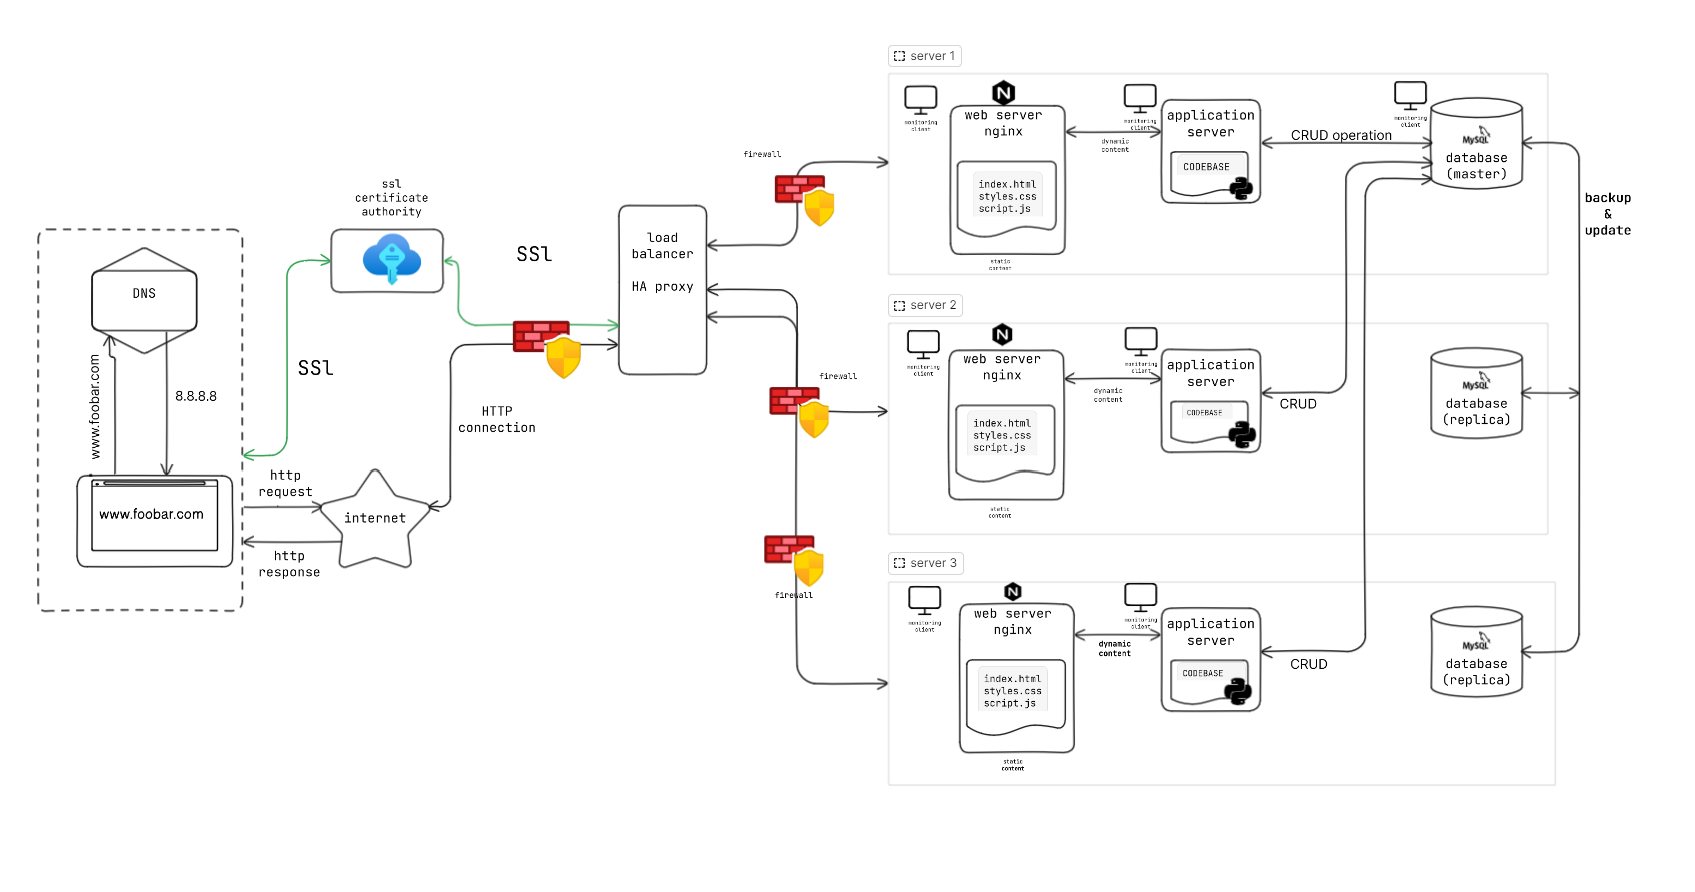
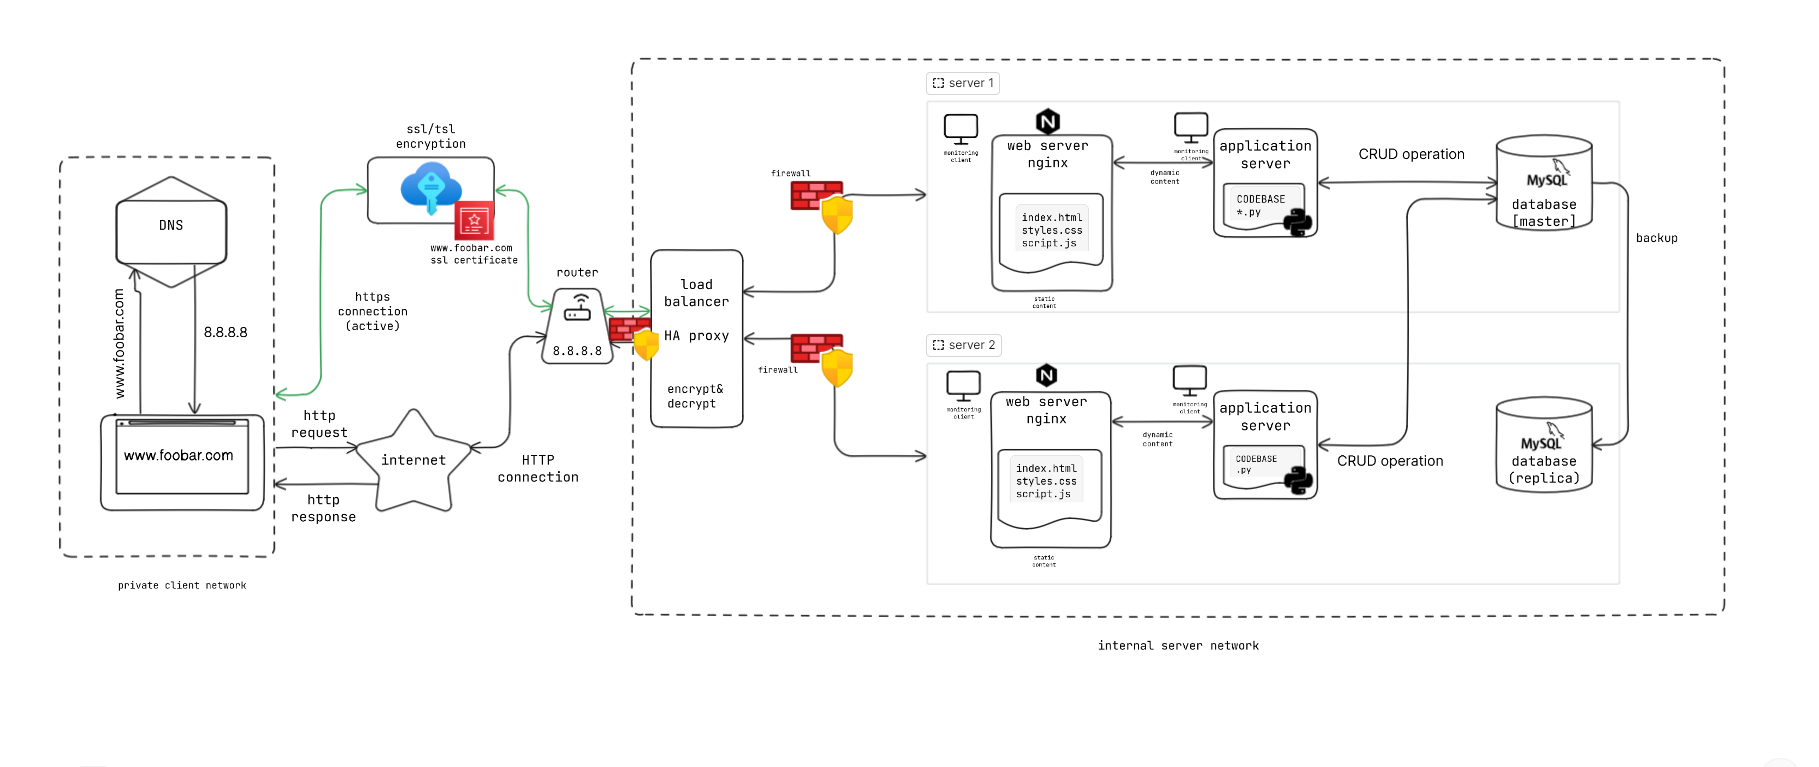
update images

diff --git a/0x09-web_infrastructure_design/writeups/task_2.md b/0x09-web_infrastructure_design/writeups/task_2.md
@@ -1,0 +1,99 @@
+# www.foobar.com Infrastructure
+
+This README explains the process from the client browser to the servers at www.foobar.com.
+It covers the enhanced infrastructure to make www.foobar.com secure, serve encrypted traffic, and enable monitoring.
+
+## Infrastructure Overview
+
+We have added several components to the infrastructure to improve security, encryption, and monitoring.
+
+### Components Added
+
+- **Firewalls (3)**: Firewalls act as protective barriers, filtering incoming and outgoing traffic to ensure only authorized communication occurs and to guard against malicious access.
+
+- **SSL Certificate**: An SSL certificate has been installed. It secures the website by encrypting data exchanged between clients and servers, ensuring data privacy and integrity.
+
+- **Monitoring Clients (6)**: Monitoring clients serve as data collectors. They gather information for monitoring services like Sumo Logic, providing insights into server and application performance, and helping to identify and address issues proactively.
+
+### Specifics About the Infrastructure
+
+#### Firewalls
+
+**Why**: Firewalls are added to:
+- Control incoming and outgoing traffic, permitting only necessary and authorized communication.
+- Enhance security by safeguarding against unauthorized access attempts and malicious traffic.
+- Isolate sensitive components from direct external access.
+
+#### Serving Traffic Over HTTPS
+
+**Why**: We serve traffic over HTTPS to:
+- Encrypt data transmitted between clients and servers, ensuring confidentiality and data integrity.
+- Provide a secure browsing experience for users, protecting sensitive information.
+- Prevent eavesdropping and man-in-the-middle attacks.
+
+#### Monitoring
+
+**Why**: Monitoring is essential for:
+- Keeping an eye on server and application performance.
+- Detecting issues early and responding to them proactively, minimizing downtime.
+- Collecting and analyzing data to gain insights into system behavior and make informed decisions.
+
+#### Monitoring Data Collection
+
+**How**: Monitoring clients (data collectors) collect data by:
+- Capturing logs, metrics, and events from servers and applications.
+- Transmitting this data to monitoring services like Sumo Logic for analysis.
+- Generating alerts and reports based on predefined criteria to flag unusual behavior.
+
+#### Monitoring Web Server QPS (Queries Per Second)
+
+**How**: To monitor web server QPS, you can set up monitoring tools to:
+- Track the number of incoming HTTP requests per second.
+- Analyze server response times and error rates.
+- Establish thresholds and alerts that notify you when QPS exceeds predefined limits.
+
+### Issues with the Infrastructure
+
+#### Terminating SSL at the Load Balancer Level
+
+**Issue**: Terminating SSL at the load balancer level poses problems because:
+- It necessitates the SSL/TLS decryption and encryption process at the load balancer, potentially overloading it.
+- It may expose unencrypted traffic between the load balancer and application servers, posing a security risk.
+
+**Mitigation**: Implement SSL/TLS termination at the application servers to distribute the SSL/TLS workload evenly and securely.
+
+#### Only One MySQL Server Accepting Writes
+
+**Issue**: Having only one MySQL server capable of accepting write operations is problematic because:
+- It creates a single point of failure (SPOF) for write operations. If this server fails, write operations become unavailable.
+- It limits write scalability and can lead to performance bottlenecks.
+
+**Mitigation**: Implement a Primary-Replica (Master-Slave) MySQL cluster with multiple replica nodes to provide redundancy, scalability, and fault tolerance for write operations.
+
+#### Servers with All the Same Components
+
+**Issue**: Servers with identical components (database, web server, application server) might be problematic because:
+- They lack component isolation, making the entire server vulnerable to issues with one component.
+- They limit the ability to scale specific components independently based on their resource requirements.
+
+**Mitigation**: Consider separating components onto different servers or containers to allow for more fine-grained scalability and isolation, improving system stability and resource utilization.
+
+## Connection Process (Using Sample IP Addresses)
+
+1. **Client Request**: A user's browser (e.g., IP: 203.0.113.1) initiates an HTTPS request to www.foobar.com.(8.8.8.8)
+
+2. **Firewall Check (Firewall 1)**: The request is first checked by the firewall (e.g., Firewall 1, IP: 192.168.1.101) to ensure it meets security criteria. Authorized traffic passes through.
+
+3. **Load Balancer**: Traffic is directed to the load balancer (IP: 192.168.1.102) to distribute requests evenly.
+
+4. **SSL/TLS Encryption (Load Balancer)**: The load balancer, which is also responsible for SSL termination, decrypts the HTTPS request, processes it, and re-encrypts the response before forwarding it.
+
+5. **Web Server & Application Server (Server)**: The load balancer routes the request to one of the application servers (e.g., Server 1, IP: 192.168.1.103). Both web and application servers respond to the request.
+
+6. **SSL/TLS Encryption (Load Balancer)**: The load balancer re-encrypts the response and sends it back to the client.
+
+7. **Firewall Check (Firewall 1)**: The response passes through the firewall before reaching the client, ensuring ongoing security.
+
+8. **Monitoring Clients**: Monitoring clients (e.g., IP: 192.168.1.104) collect data on server and application performance and transmit it to the monitoring service (Sumo Logic) for analysis.
+
+This process ensures secure, encrypted, and monitored communication between the client browser and the servers at www.foobar.com.

diff --git a/0x09-web_infrastructure_design/writeups/task_3.md b/0x09-web_infrastructure_design/writeups/task_3.md
@@ -1,0 +1,91 @@
+# Scalable Web Application Infrastructure Setup
+
+An overview of a scalable web application infrastructure, designed to handle increased traffic, ensure high availability, and maintain robust security. The setup consists of various components, each serving a specific purpose to enhance the reliability and performance of our web application hosted at www.foobar.com.
+
+## Components
+
+Our infrastructure includes the following components:
+
+### Network Components
+
+1. **Router (8.8.8.8)**: This router serves as the gateway to the internet, routing incoming HTTPS connections to the network.
+
+2. **Firewalls**:
+   - **Front-End Firewall**: Positioned before the load balancers, this firewall ensures that only authorized traffic reaches our load balancers.
+   - **Perimeter Firewalls**: Each load balancer has a dedicated perimeter firewall to provide an additional layer of security.
+
+### Load Balancers
+
+3. **HAProxy Load Balancers (Clustered)**: We have configured two HAProxy load balancers as a cluster. This setup ensures high availability, fault tolerance, and efficient distribution of incoming traffic to web servers.
+
+### Web Servers
+
+4. **Web Servers (Nginx)**: Three Nginx web servers handle incoming client requests. These web servers serve static content and manage user interactions.
+
+5. **Monitoring Clients for Web Servers**: Each web server has a monitoring client responsible for collecting performance and usage data.
+
+### Application Servers
+
+6. **Application Servers**: Three dedicated application servers are responsible for executing the application's business logic. These servers are designed for scalability to accommodate increased processing demands.
+
+7. **Monitoring Clients for Application Servers**: Each application server has a monitoring client responsible for collecting performance and usage data.
+
+### Database
+
+8. **Master Database (MySQL)**: The MySQL master database server stores and manages data for the application.
+
+9. **Database Replicas**: Two database replicas enhance data redundancy, read scalability, and failover capabilities.
+
+## Architecture Overview
+
+The scalable web application infrastructure operates as follows:
+
+--- a simplified representation of how traffic would flow through the provided infrastructure setup using sample IP addresses:
+
+1. **Client Request**:
+   - A client (e.g., a web browser) initiates an HTTPS request to access www.foobar.com. The client's IP address is, for instance, 203.0.113.1.
+
+2. **Router (8.8.8.8)**:
+   - The client's request is first directed to the router, which has a public IP address (8.8.8.8).
+   - The router's role is to route incoming traffic to the internal network.
+
+3. **Front-End Firewall**:
+   - The front-end firewall, which is part of the network's perimeter, checks and filters the incoming request to ensure its security.
+   - If the request is deemed secure and authorized, it's allowed to proceed.
+
+4. **Load Balancers (HAProxy Clustered)**:
+   - The request, now deemed safe, is forwarded to one of the HAProxy load balancers.
+   - Let's say the request goes to HAProxy Load Balancer 1 with an IP address of 192.168.1.101.
+   - HAProxy Load Balancer 1 distributes the request to one of the web servers.
+
+5. **Web Servers (Nginx, 3 servers)**:
+   - The request reaches one of the web servers. For example, Web Server 1 with IP 192.168.2.1.
+   - Web Server 1 processes the request, which may include serving static content or forwarding it to an application server.
+
+6. **Application Servers (3 servers)**:
+   - If required, Web Server 1 forwards the request to an application server. Let's assume the request is handled by Application Server 2 with IP 192.168.3.2.
+   - Application Server 2 executes the application's business logic and may interact with the database.
+
+7. **Database Tier (MySQL)**:
+   - If the application server needs to fetch or update data, it communicates with the MySQL database server.
+   - For instance, the Master Database has an IP address of 192.168.4.1.
+
+8. **Monitoring Clients**:
+   - Throughout this process, monitoring clients on web servers and application servers collect performance and usage data for analysis and troubleshooting.
+
+
+## Key Benefits
+
+Our infrastructure offers several benefits:
+
+- **High Availability**: Clustering of HAProxy load balancers and redundancy in key components ensure high availability and fault tolerance.
+
+- **Scalability**: Both web servers and application servers can be independently scaled to accommodate increased traffic and processing requirements.
+
+- **Resource Isolation**: Component separation simplifies maintenance, updates, and resource management for web servers, application servers, and databases.
+
+- **Load Balancing Flexibility**: Load balancers distribute traffic efficiently, improving performance and optimizing resource utilization.
+
+- **Enhanced Security**: Firewalls and security configurations provide robust protection against unauthorized access and threats.
+
+- **Improved Fault Tolerance**: Failures in one component have limited impact on others, minimizing downtime and disruptions.

diff --git a/0x09-web_infrastructure_design/writeups/task_1.md b/0x09-web_infrastructure_design/writeups/task_1.md
@@ -1,0 +1,66 @@
+# Enhanced Infrastructure for www.foobar.com
+ We have enhanced the infrastructure to address the requirements and improve reliability and scalability:
+
+## Components Added
+
+### Servers (2)
+
+- **Why**: We've added an additional 2 servers for redundancy and high availability. If one server fails, the other can take over.
+
+### Load Balancer (HAProxy)
+
+- **Why**: The load balancer takes up one server and distributes incoming traffic across remaining servers, ensuring that the infrastructure can handle higher traffic loads and adding redundancy.
+
+- **Distribution Algorithm**: We configure HAProxy with a round-robin distribution algorithm. It evenly distributes requests to each server in a circular manner.
+
+- **Active-Active Setup**: The load balancer is configured in an Active-Active setup. All web servers are actively serving traffic. This ensures that both servers are utilized, improving performance and fault tolerance. In Active-Active, both servers handle requests simultaneously.
+
+### Application Files (Your Code Base) & Database (MySQL)
+
+- **Why**:  All servers continue serving the same content for redundancy with the databases connfigured in a master replica setup
+
+## Specifics About the Infrastructure
+
+### Single Point of Failure (SPOF)
+
+**Issue**: In this setup, there are still single points of failure:
+- **Load Balancer**: If the load balancer fails, it can disrupt traffic distribution.
+- **Web Server and Application Server**: If either server fails, it can impact availability.
+
+**Mitigation**: To address these SPOF concerns, we might consider:
+- Adding redundancy for the load balancer (e.g., use a secondary load balancer).
+- Implementing monitoring and automated failover mechanisms to detect server failures and route traffic accordingly.
+- Implementing regular backups and a disaster recovery plan.
+
+### Security Issues (No Firewall, No HTTPS)
+
+**Issue**: Security measures like firewalls and HTTPS are missing.
+- **No Firewall**: Without a firewall, your infrastructure is more susceptible to unauthorized access and attacks.
+- **No HTTPS**: Not using HTTPS puts data transmission between clients and servers at risk of interception or tampering.
+
+**Mitigation**: Improve security by:
+- Implementing a firewall to control traffic and protect against unauthorized access.
+- Enabling HTTPS with SSL/TLS certificates to encrypt data in transit, enhancing data security and user trust.
+
+### Monitoring
+
+**Issue**: There is no monitoring in place to track the health and performance of servers and applications.
+
+**Mitigation**: Implement a monitoring solution (e.g., Prometheus, Nagios, or a cloud-based solution) to:
+- Continuously monitor server health, resource utilization, and application performance.
+- Set up alerts to detect issues proactively and respond promptly.
+
+## Database Primary-Replica (Master-Slave) Cluster
+
+### How It Works
+
+In a Primary-Replica (Master-Slave) database cluster:
+- The **Primary node (Master)** is the primary database server for read and write operations. It receives the queries from the application and conducts the read/write operation and updates a log file of
+    the changes which the replica servers regularly check for and update their records accordingly.
+- The **Replica nodes (Slaves)** replicate data from the Primary and can be used for read operations, improving read scalability and redundancy.
+- Write operations go to the Primary, ensuring data consistency.
+
+### Difference Between Primary and Replica in Regard to the Application
+
+- **Primary Node**: The Primary handles both read and write operations. It's responsible for maintaining data consistency and integrity, making it crucial for the application's core functionality.
+- **Replica Node**: Replica nodes are primarily used for read operations. They help offload read traffic from the Primary, improving read performance and scalability. However, Replica nodes are read-only and do not accept write operations directly.

diff --git a/0x09-web_infrastructure_design/writeups/task_0.md b/0x09-web_infrastructure_design/writeups/task_0.md
@@ -1,0 +1,57 @@
+# One-Server Web Infrastructure
+## Introduction
+
+Imagine a user wanting to access a website hosted at www.foobar.com. To make this possible, we have designed a one-server web infrastructure using the following components:
+
+- **1 Server**: A single server that hosts all components of the web application.
+- **1 Web Server (Nginx)**: Nginx is used as the web server to handle HTTP requests.
+- **1 Application Server**: An application server that hosts your code base. GUnicorn for python.
+- **Application Files**: The application code base, which includes the website's HTML, CSS, JavaScript, Python, and server-side code.
+- **1 Database (MySQL)**: MySQL is used as the database to store and manage data.
+- **1 Domain Name (www.foobar.com)**: A domain name (www.foobar.com) is configured to point to the server's IP address (e.g., 8.8.8.8).
+
+## Specifics About the Infrastructure
+
+### What is a Server?
+
+A server, in this context, is a computer or a virtual machine that stores and serves the components of your web application. It receives and responds to requests from users' computers over the internet.
+
+### Role of the Domain Name
+
+The domain name (www.foobar.com) acts as a user-friendly label that maps to the server's IP address. It allows users to access your website by typing the human-readable domain name instead of remembering the server's numerical IP address.
+
+### Type of DNS Record for www.foobar.com
+
+The DNS record "www" in www.foobar.com is typically an "A" (Address) record. It associates the subdomain "www" with the server's IP address (e.g., 8.8.8.8).
+
+### Role of the Web Server (Nginx)
+
+The web server (Nginx) is responsible for handling HTTP requests from users' web browsers. It serves static content (HTML, CSS, JavaScript, images) directly to users and routes dynamic requests to the application server.
+
+### Role of the Application Server
+
+The application server hosts your code base and is responsible for executing application logic, processing user requests, interacting with the database, and generating dynamic content (e.g., user-specific pages or data).
+
+### Role of the Database (MySQL)
+
+The database (MySQL) stores and manages data used by your web application. It stores information such as user accounts, content, and configurations. The application server communicates with the database to retrieve and update data as needed.
+
+### Communication with User's Computer
+
+The server uses the HTTP/HTTPS protocol to communicate with the user's computer when they request your website. The user's web browser sends HTTP requests to the server, and the server responds with HTML, CSS, JavaScript, and other resources to render the web pages on the user's screen.
+
+## Issues with this Infrastructure
+
+### Single Point of Failure (SPOF)
+
+This infrastructure has a single point of failure (SPOF) because there is only one server. If the server experiences hardware failure, software issues, or becomes unreachable for any reason, the entire website will go offline, resulting in downtime for users.
+
+### Downtime During Maintenance
+
+When maintenance or updates are needed, such as deploying new code or configuring the web server, the web server often needs to be restarted. During this restart process, the website may experience downtime, and users may be temporarily unable to access it.
+
+### Limited Scalability
+
+This one-server infrastructure has limited scalability. It may struggle to handle high traffic loads, and scaling up to accommodate more users can be challenging. As traffic grows, you may encounter performance issues and slower response times, which can negatively impact the user experience.
+
+To address these issues and improve the infrastructure's reliability and scalability, we might consider adding redundancy, load balancing, and additional servers to distribute the load and enhance fault tolerance.
